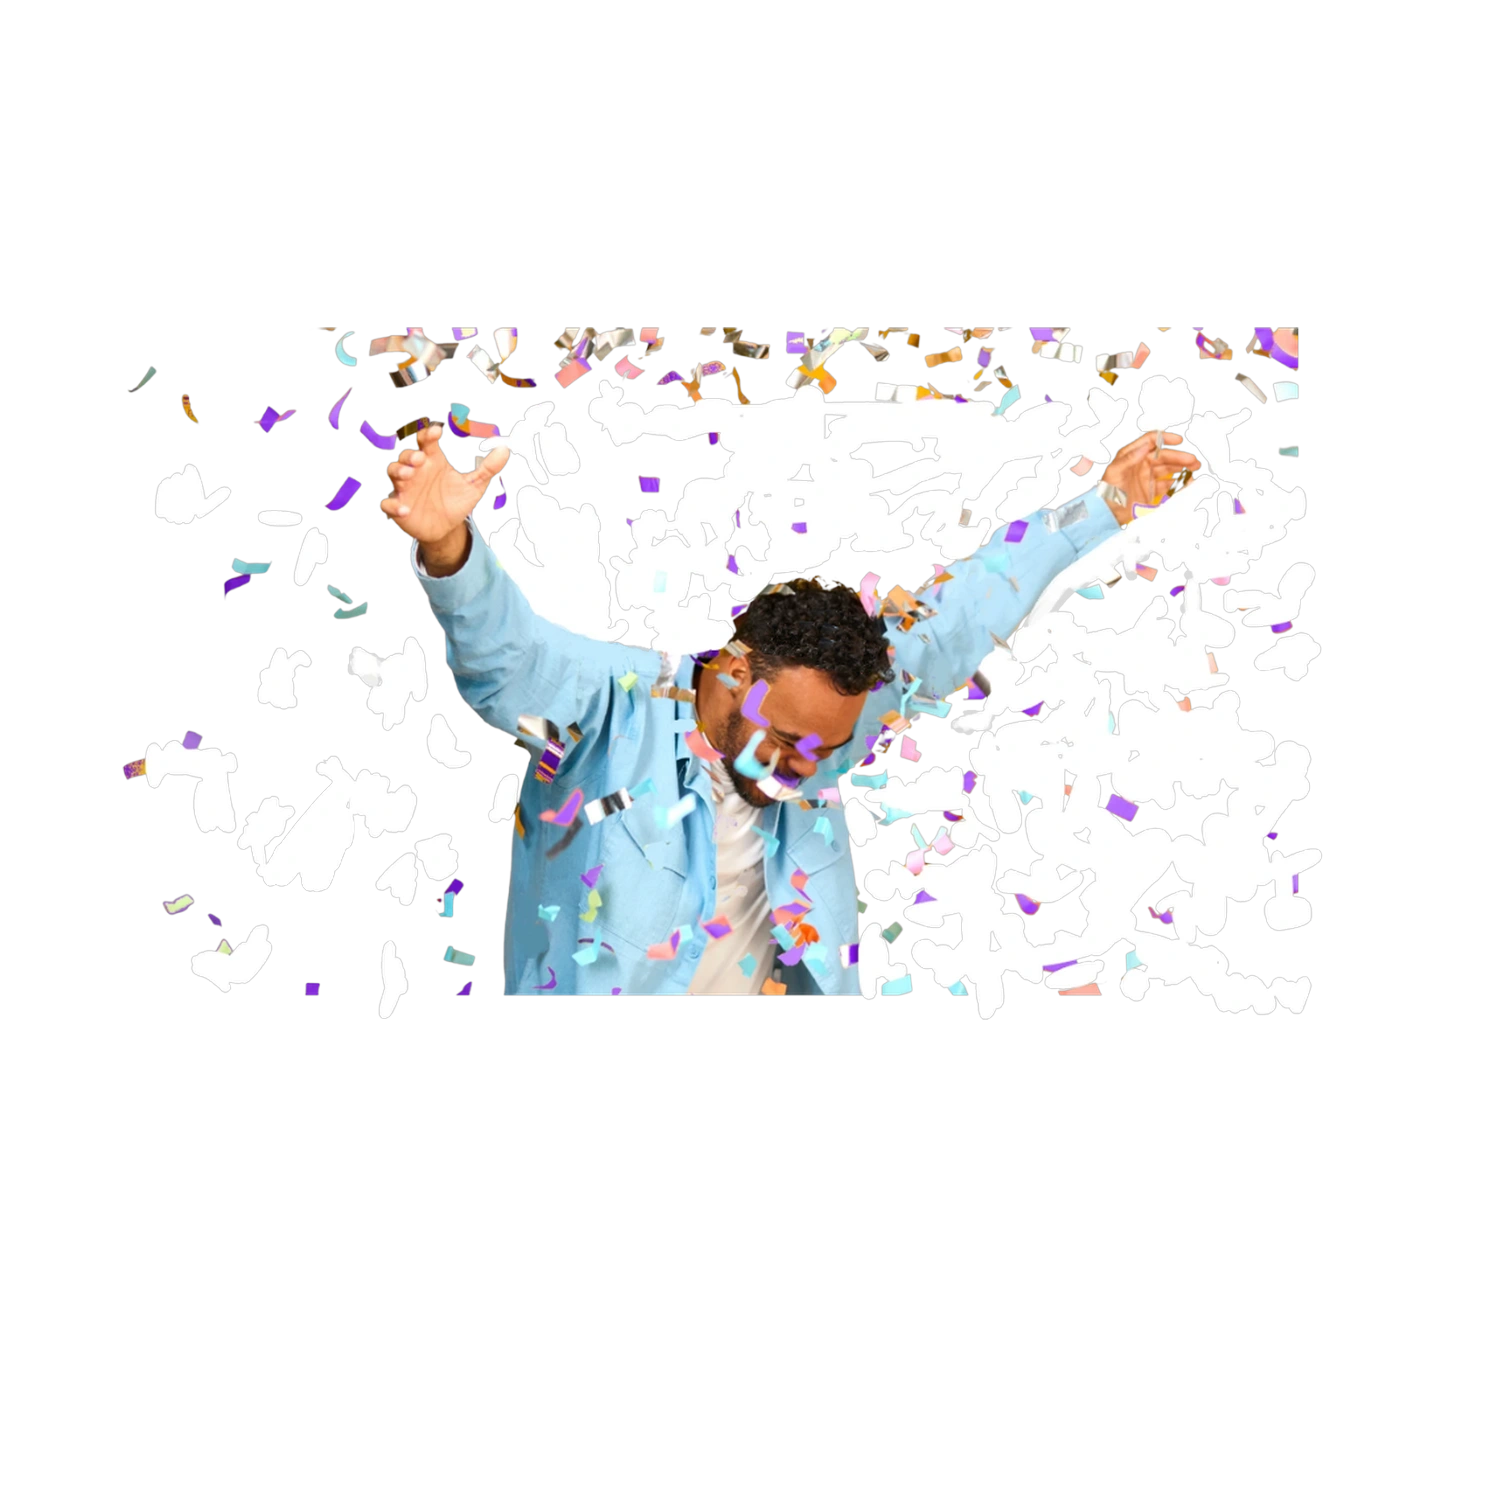
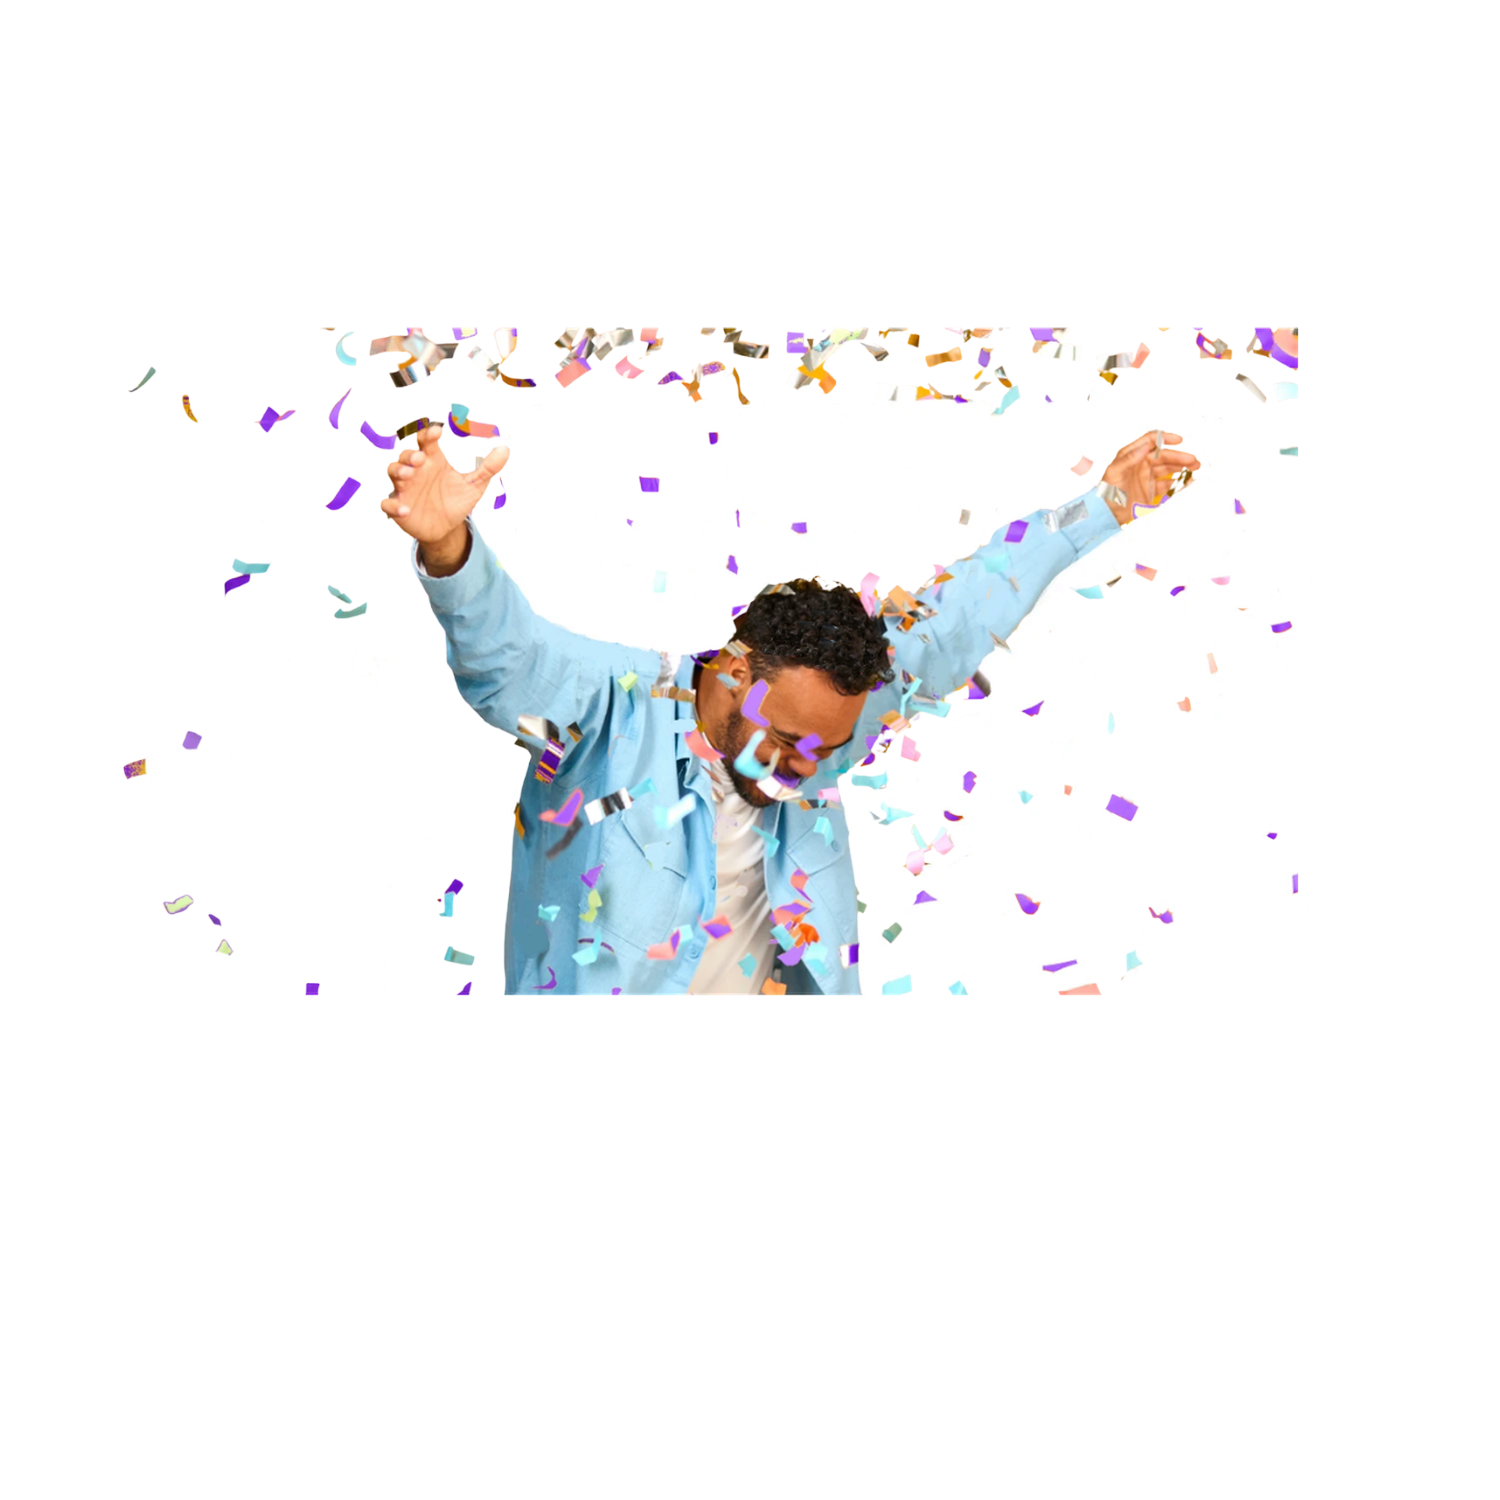
Lossless WebP for lottery image (removes lossy transparency artifacts); bump to v2

diff --git a/app/page.tsx b/app/page.tsx
@@ -775,7 +775,7 @@ export default function Home() {
         <div style={{ position: "relative", height: "510px" }}>
         <div style={{ position: "absolute", left: "50%", top: 0, transform: "translateX(-50%)", width: "min(1152px, calc(100% - 48px))", height: "100%", backgroundColor: "#ffffff", border: "1px solid rgba(0,0,0,0.08)", borderRadius: "24px", overflow: "hidden", zIndex: 0, boxShadow: "0 1px 3px rgba(0,0,0,0.05), 0 6px 20px rgba(0,0,0,0.06)" }}>
           {/* eslint-disable-next-line @next/next/no-img-element */}
-          <img src="/lot123.webp?v=1" alt="Celebrating with confetti" style={{ position: "absolute", inset: 0, width: "100%", height: "100%", objectFit: "cover", transform: "scale(1.68)" }} />
+          <img src="/lot123.webp?v=2" alt="Celebrating with confetti" style={{ position: "absolute", inset: 0, width: "100%", height: "100%", objectFit: "cover", transform: "scale(1.68)" }} />
         </div>
         <div className="max-w-5xl mx-auto" style={{ position: "relative", zIndex: 1, height: "100%", display: "flex", alignItems: "center" }}>
           <div className="grid md:grid-cols-2 gap-16 items-center" style={{ width: "100%" }}>
